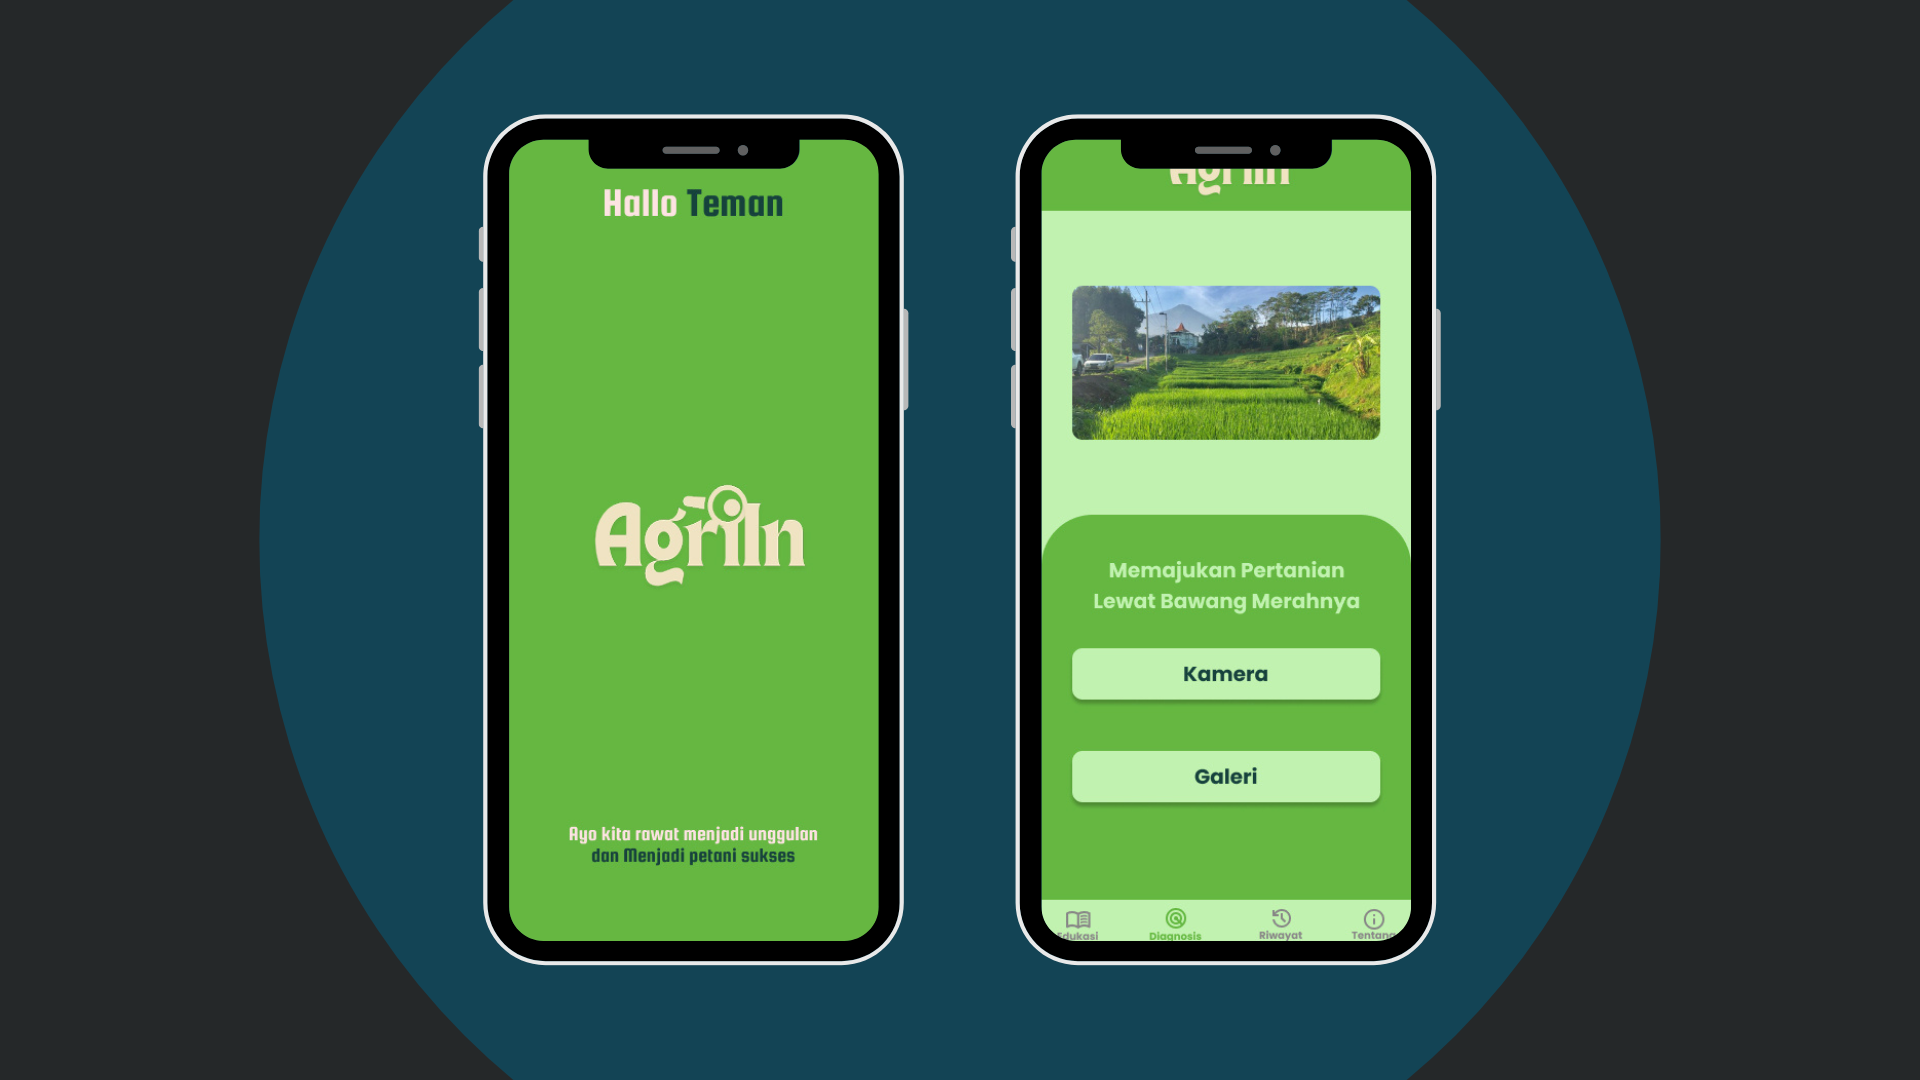
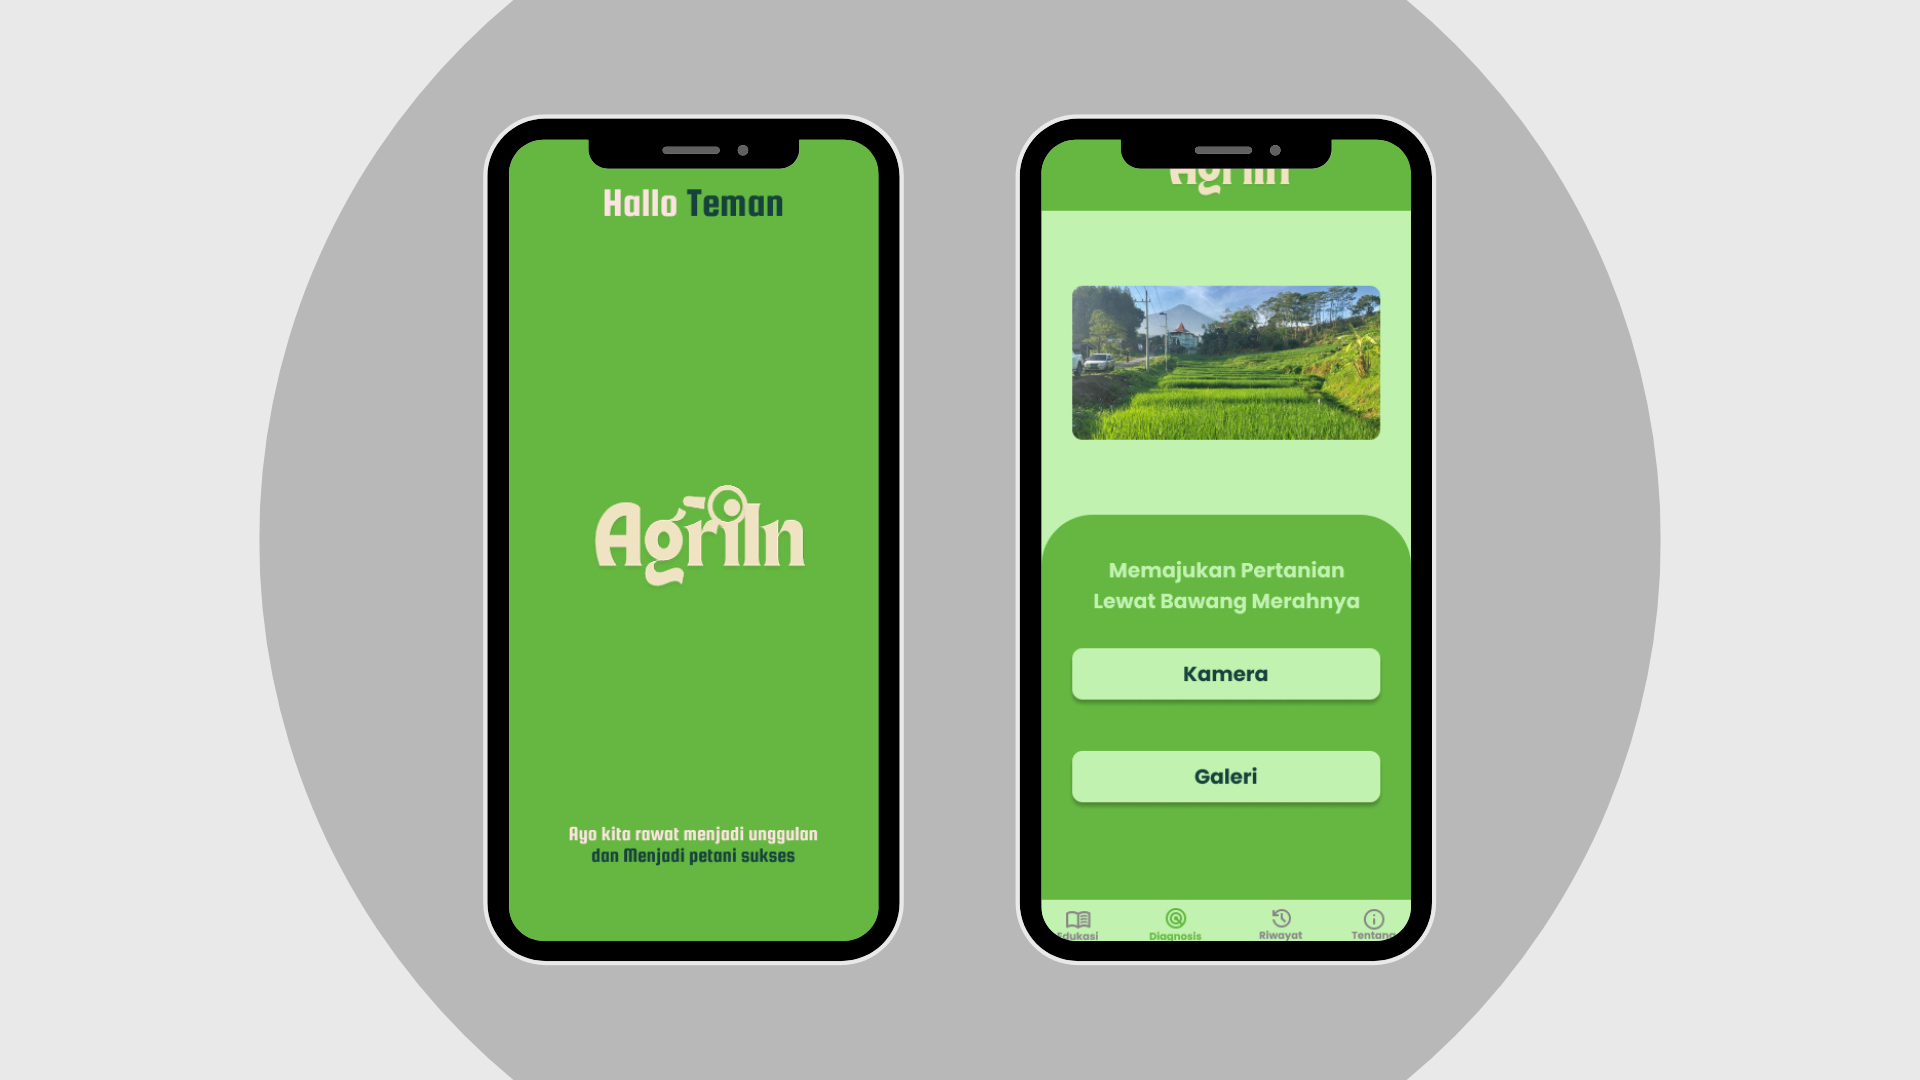
deskripsi singkat project belom alert juga belom

diff --git a/app/layout/Project.tsx b/app/layout/Project.tsx
@@ -1,6 +1,9 @@
 import Image from "next/image";
 
 import ImgPort1 from "../assets/afterguilty/home.png";
+import ImgPort2 from "../assets/blackwooden/1.png";
+import ImgPort3 from "../assets/indomas/1.png";
+import ImgPort4 from "../assets/agriin/1.png";
 
 export default function Project() {
   return (
@@ -39,12 +42,50 @@ export default function Project() {
               <p className="bg-secondary-me p-1 rounded-full text-primary-me">Dart</p>
               <p className="bg-secondary-me p-1 rounded-full text-primary-me">MySQL</p>
             </div>
-            <p className="text-xl text-secondary-me my-4">2023 | E-commerce | Website</p>
+            <p className="text-xl text-secondary-me my-4">2023 | E-commerce | Mobile App</p>
             <h1 className="text-4xl text-secondary-me font-bold">Black Wooden</h1>
+            <p className="text-sm text-secondary-me my-4">Aplikasi untuk membeli produk furniture</p>
+          </section>
+          <section className="p-4">
+            <Image src={ImgPort2} alt="AfterGuilty Store" className="w-full rounded-lg" />
+          </section>
+        </div>
+      </a>
+
+      {/* //* Indomas */}
+      <a href="#" className="flex flex-col justify-center items-center m-5">
+        <div className="flex flex-row justify-center items-center bg-tertiary-me rounded-xl w-2/3">
+          <section className="pl-20 w-full">
+            <div className="flex flex-row space-x-2">
+              <p className="bg-secondary-me p-1 rounded-full text-primary-me">Laravel</p>
+              <p className="bg-secondary-me p-1 rounded-full text-primary-me">Bootstrap</p>
+              <p className="bg-secondary-me p-1 rounded-full text-primary-me">MySQL</p>
+            </div>
+            <p className="text-xl text-secondary-me my-4">2024 | Legalitas Ormas | Website</p>
+            <h1 className="text-4xl text-secondary-me font-bold">Indomas</h1>
             <p className="text-sm text-secondary-me my-4">Website yang berfokus pada jual beli produk fashion</p>
           </section>
           <section className="p-4">
-            <Image src={ImgPort1} alt="AfterGuilty Store" className="w-full rounded-lg" />
+            <Image src={ImgPort3} alt="AfterGuilty Store" className="w-full rounded-lg" />
+          </section>
+        </div>
+      </a>
+
+      {/* //* AgriIn */}
+      <a href="#" className="flex flex-col justify-center items-center m-5">
+        <div className="flex flex-row justify-center items-center bg-tertiary-me rounded-xl w-2/3">
+          <section className="pl-20 w-full">
+            <div className="flex flex-row space-x-2">
+              <p className="bg-secondary-me p-1 rounded-full text-primary-me">Flutter</p>
+              <p className="bg-secondary-me p-1 rounded-full text-primary-me">Yolo-11</p>
+              <p className="bg-secondary-me p-1 rounded-full text-primary-me">Mechine Learning</p>
+            </div>
+            <p className="text-xl text-secondary-me my-4">2024 | Detection | Mobile App</p>
+            <h1 className="text-4xl text-secondary-me font-bold">AgriIn</h1>
+            <p className="text-sm text-secondary-me my-4">Website yang berfokus pada jual beli produk fashion</p>
+          </section>
+          <section className="p-4">
+            <Image src={ImgPort4} alt="AfterGuilty Store" className="w-full rounded-lg" />
           </section>
         </div>
       </a>
